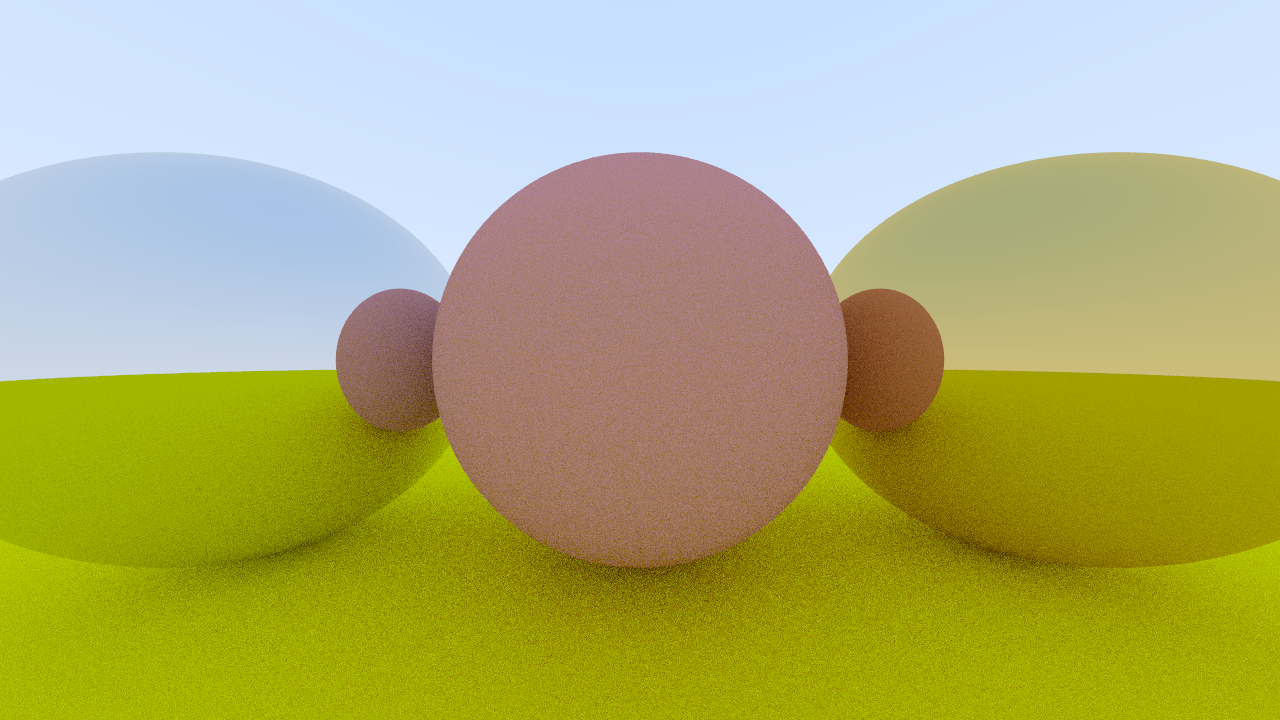
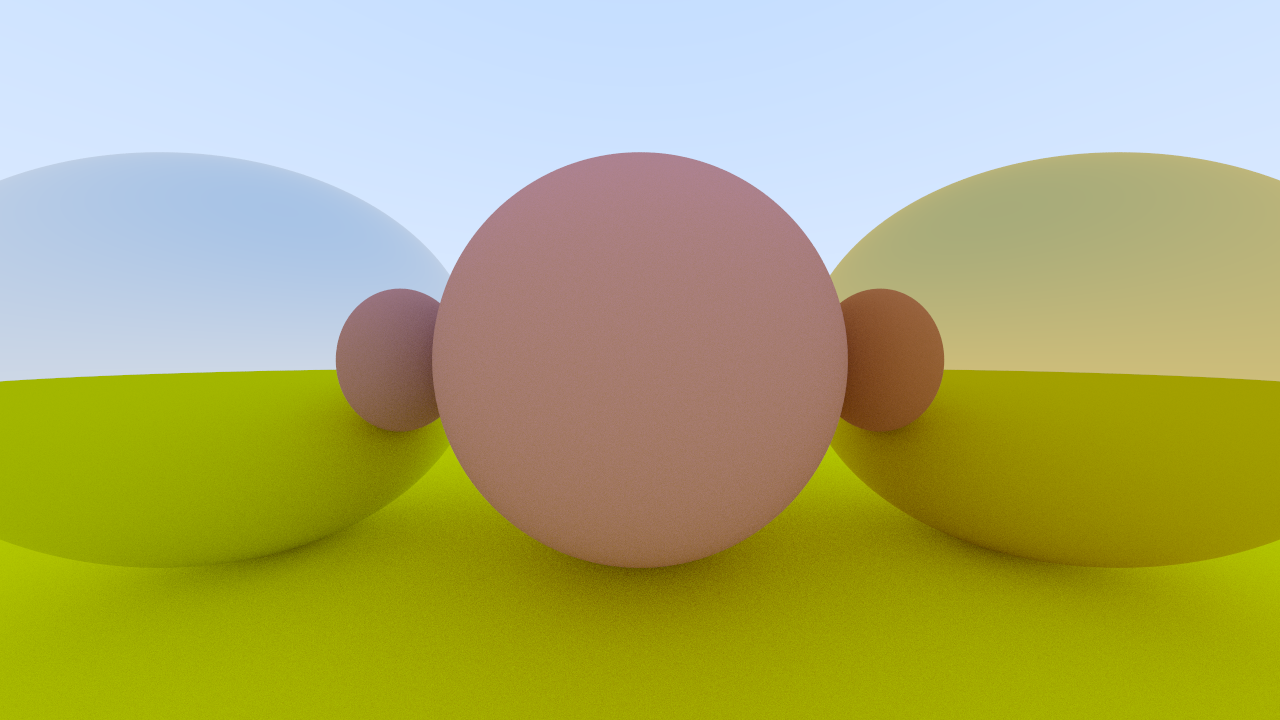
minor refactor

Changed region(s): [[0.1875, 0.4889, 0.875, 0.9778], [0.6875, 0.5806, 0.7188, 0.6111]]

diff --git a/src/renderer.rs b/src/renderer.rs
@@ -1,4 +1,8 @@
-use std::{f32::INFINITY, fs::File, io::BufWriter};
+use std::{
+    f32::INFINITY,
+    fs::File,
+    io::{self, BufWriter},
+};
 
 use image::ImageError;
 use indicatif::ProgressBar;
@@ -158,15 +162,14 @@ impl<'a> Renderer<'a> {
             mix(rgba(1.0, 1.0, 1.0, 1.0), rgba(0.5, 0.7, 1.0, 1.0), a)
         }
     }
-    pub fn render(&self) -> Result<(), ImageError> {
+    pub fn render(&self) -> Vec<Color> {
         let mut pixels =
             Vec::with_capacity((self.camera.frame_size.0 * self.camera.frame_size.1) as usize);
         let bar = ProgressBar::new(pixels.capacity() as u64);
-        const SAMPLES: usize = 12;
+        const SAMPLES: usize = 128;
         use rayon::prelude::*;
         for j in 0..self.camera.frame_size.1 {
             for i in 0..self.camera.frame_size.0 {
-                let mut accu_color = rgba(0.0, 0.0, 0.0, 1.0);
                 let accu_color: Color = (0..SAMPLES)
                     .into_par_iter()
                     .map(|_| {
@@ -184,11 +187,14 @@ impl<'a> Renderer<'a> {
         }
         bar.finish();
 
+        pixels
+    }
+    pub fn write(&self, pixels: &Vec<Color>, mut writer: impl io::Write + io::Seek) {
         let mut buffer: Vec<u8> = Vec::with_capacity(pixels.len() * 4);
         for c in pixels {
             buffer.extend_from_slice(&c.linear_to_gamma(2.2).as_rgba8_bytes());
         }
-        let mut writer = BufWriter::new(File::create("output.png").unwrap());
+        // let mut writer = BufWriter::new(File::create("output.png").unwrap());
         image::write_buffer_with_format(
             &mut writer,
             &buffer,
@@ -198,7 +204,6 @@ impl<'a> Renderer<'a> {
             image::ImageFormat::Png,
         )
         .unwrap();
-        Ok(())
     }
 }
 

diff --git a/src/main.rs b/src/main.rs
@@ -1,4 +1,9 @@
-use std::{thread, time::Duration};
+use std::{
+    fs::File,
+    io::BufWriter,
+    thread,
+    time::{Duration, Instant},
+};
 
 use lib_rs::{
     color::{rgba, Color},
@@ -52,5 +57,9 @@ fn main() {
         },
     );
     let renderer = Renderer::new(&camera, &scene);
-    renderer.render();
+    let time = Instant::now();
+    let pixels = renderer.render();
+    println!("Time {} secs.", time.elapsed().as_secs_f32());
+    let writer = BufWriter::new(File::create("output.png").unwrap());
+    renderer.write(&pixels, writer);
 }
